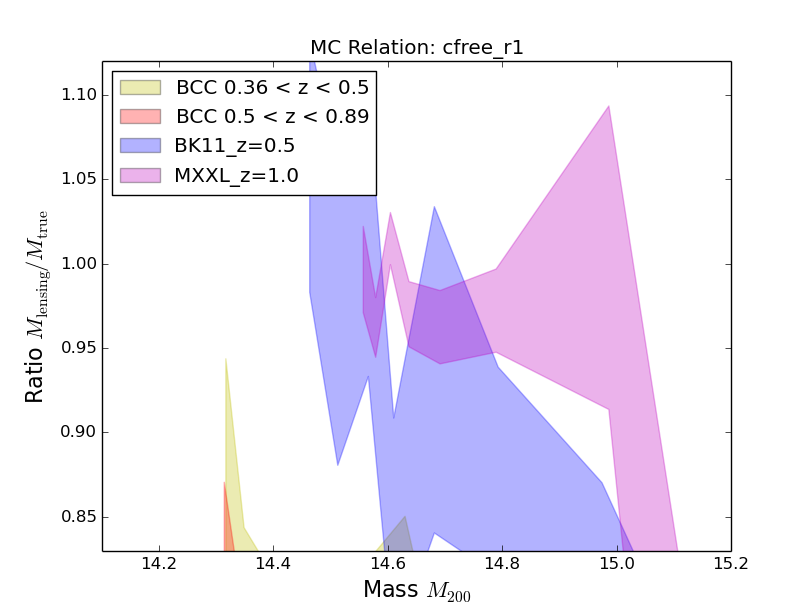
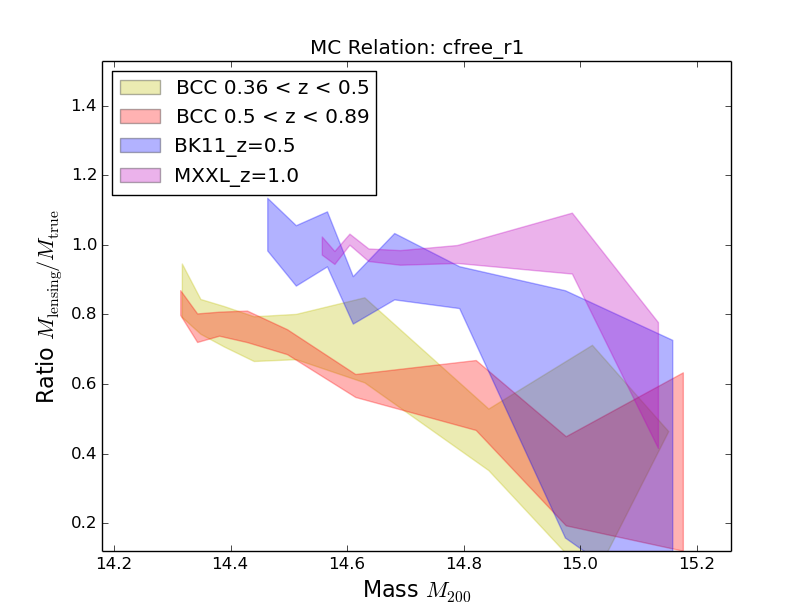
produced readable r1 graphic

diff --git a/compareDiffSims.py b/compareDiffSims.py
@@ -14,8 +14,8 @@ simdirs = [bccsimdir, bk11snap141dir, mxxldir]
 #simnames = 'BCC BK11_z=0.25 BK11_z=0.5 MXXL_z=1.0'.split()
 simnames = 'BCC BK11_z=0.5 MXXL_z=1.0'.split()
 
-subdirs='c4_r7 cfree_r7 duffy_r7'.split()
-subdirnames='c4_r7 cfree_r7 duffy_r7'.split()
+subdirs='c4_r1 cfree_r1 duffy_r1'.split()
+subdirnames='c4_r1 cfree_r1 duffy_r1'.split()
 
 data = {}
 
